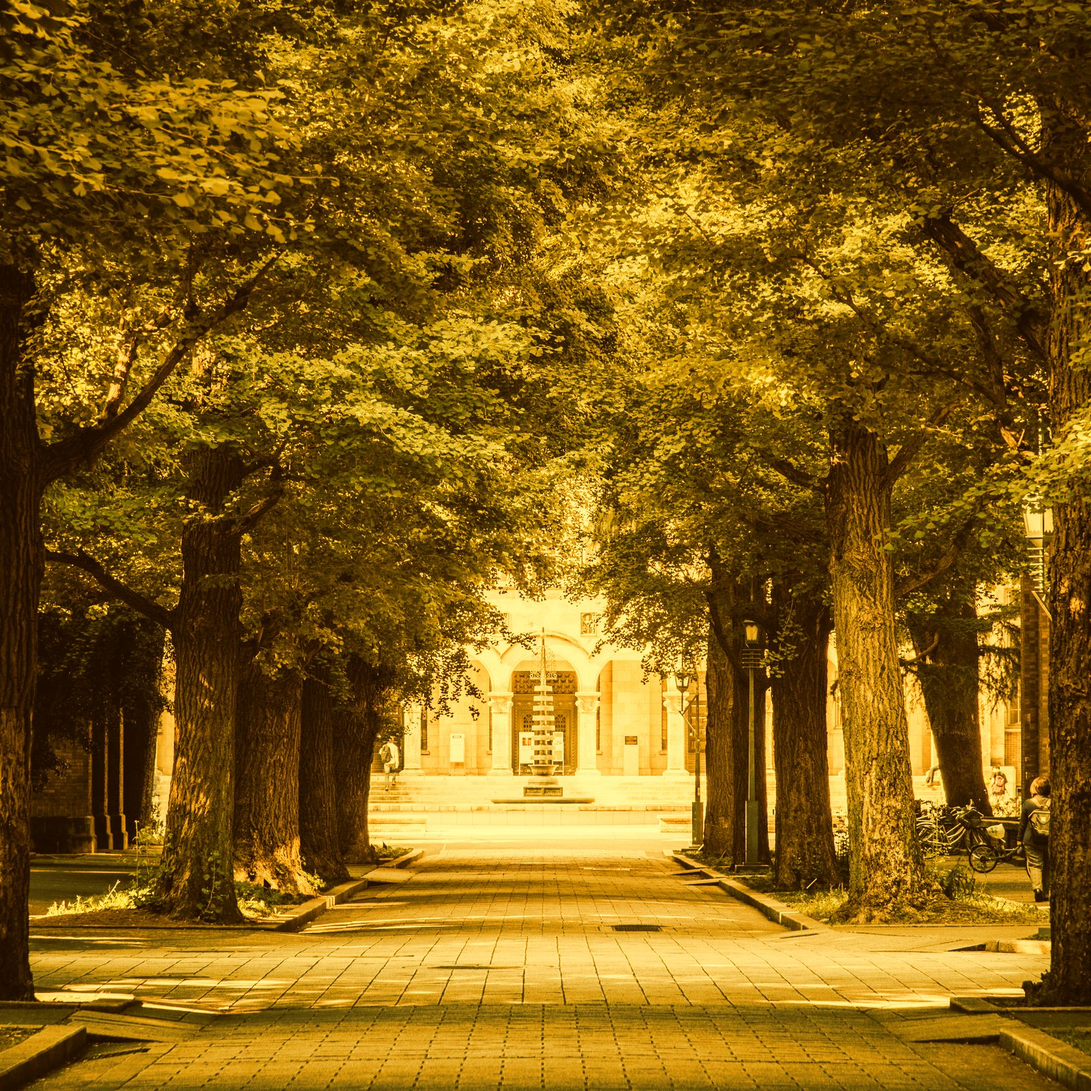
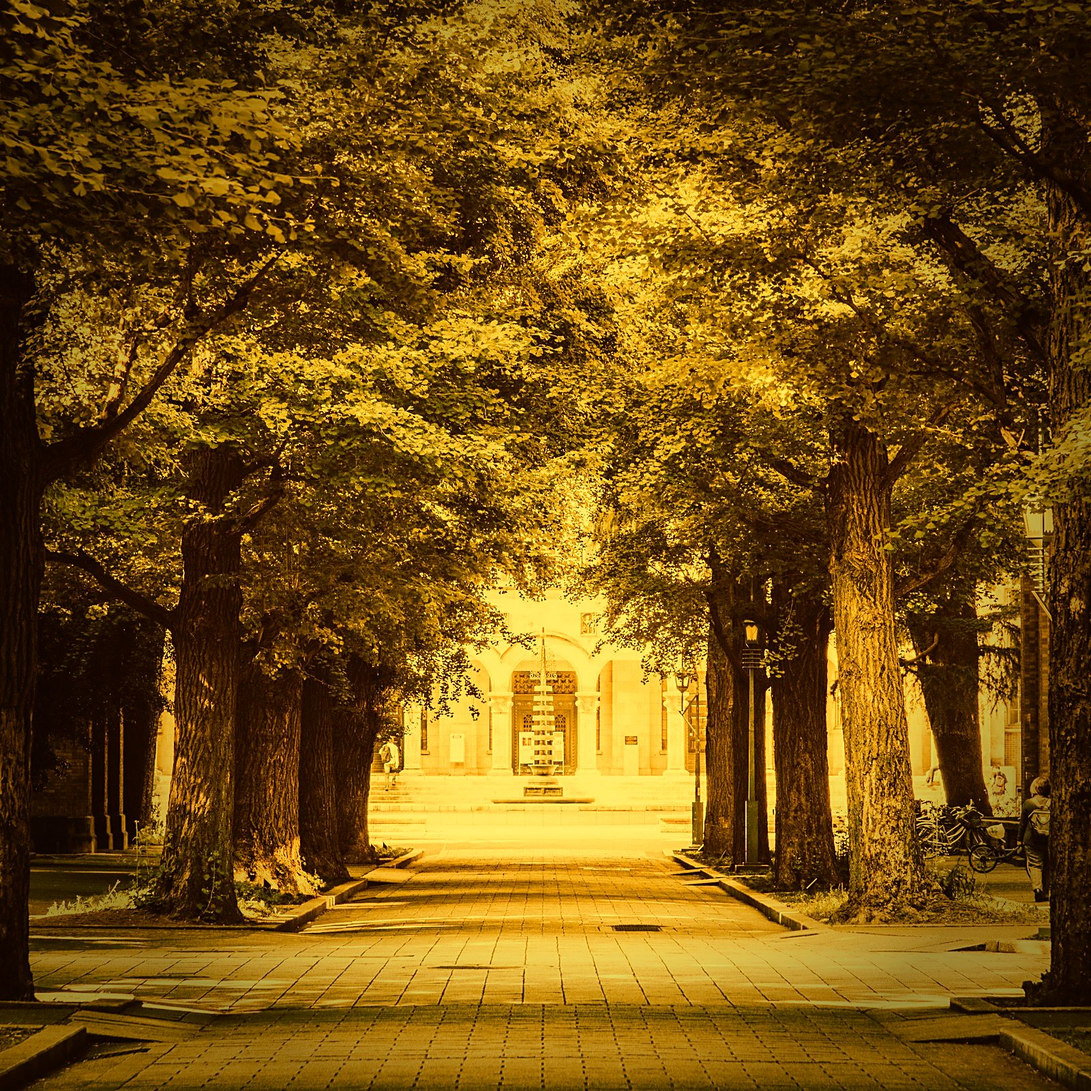
첫화면 - 은행나무 가을빛 히어로로 개선
- gold_avenue 배경을 세피아톤에서 실제 은행잎 호박·황금색으로 리터치
  (잎사귀 영역만 색보정, 나무 기둥은 짙은 갈색, 비네트로 터널감 강조)
- 히어로 높이 82vh로 확대, 좌→우 그라데이션으로 우측 황금빛 노출
- 은행잎 광채 레이어 추가

diff --git a/OB/index.html b/OB/index.html
@@ -52,12 +52,18 @@
 
   /* ── 히어로 ── */
   .hero{
-    position:relative;color:#fff;overflow:hidden;
+    position:relative;color:#fff;overflow:hidden;min-height:82vh;display:flex;align-items:center;
     background:
-      linear-gradient(180deg, rgba(16,24,40,.66) 0%, rgba(20,24,34,.5) 45%, rgba(10,13,22,.82) 100%),
-      url('../images/gold_avenue.jpg') center 55%/cover;
+      /* 좌측은 짙게(글씨 가독) → 우측은 은행나무 황금빛이 그대로 */
+      linear-gradient(100deg, rgba(10,15,27,.90) 0%, rgba(12,17,30,.74) 34%, rgba(14,18,28,.34) 60%, rgba(40,26,6,.20) 100%),
+      /* 위아래 살짝 눌러 헤더·다음 섹션과 자연스럽게 이어짐 */
+      linear-gradient(180deg, rgba(10,14,24,.55) 0%, rgba(10,14,24,0) 26%, rgba(10,14,24,0) 62%, rgba(10,13,22,.72) 100%),
+      url('../images/gold_avenue.jpg') center 52%/cover;
   }
-  .hero .container{position:relative;z-index:2;padding-top:60px;padding-bottom:68px;}
+  /* 황금빛 은행잎 광채 */
+  .hero::before{content:"";position:absolute;inset:0;z-index:1;pointer-events:none;
+    background:radial-gradient(ellipse 46% 40% at 72% 46%, rgba(255,214,122,.30) 0%, rgba(255,196,80,.10) 45%, rgba(0,0,0,0) 72%);}
+  .hero .container{position:relative;z-index:2;padding-top:74px;padding-bottom:80px;width:100%;}
   .hero .eyebrow{display:flex;align-items:center;gap:12px;font-size:12.5px;letter-spacing:.42em;color:var(--gold-bright);margin-bottom:22px;}
   .hero .eyebrow::before{content:"";width:36px;height:1px;background:var(--gold);}
   .hero h1{font-family:'Noto Serif KR',serif;font-size:clamp(30px,4.4vw,52px);font-weight:600;line-height:1.4;margin-bottom:20px;}
